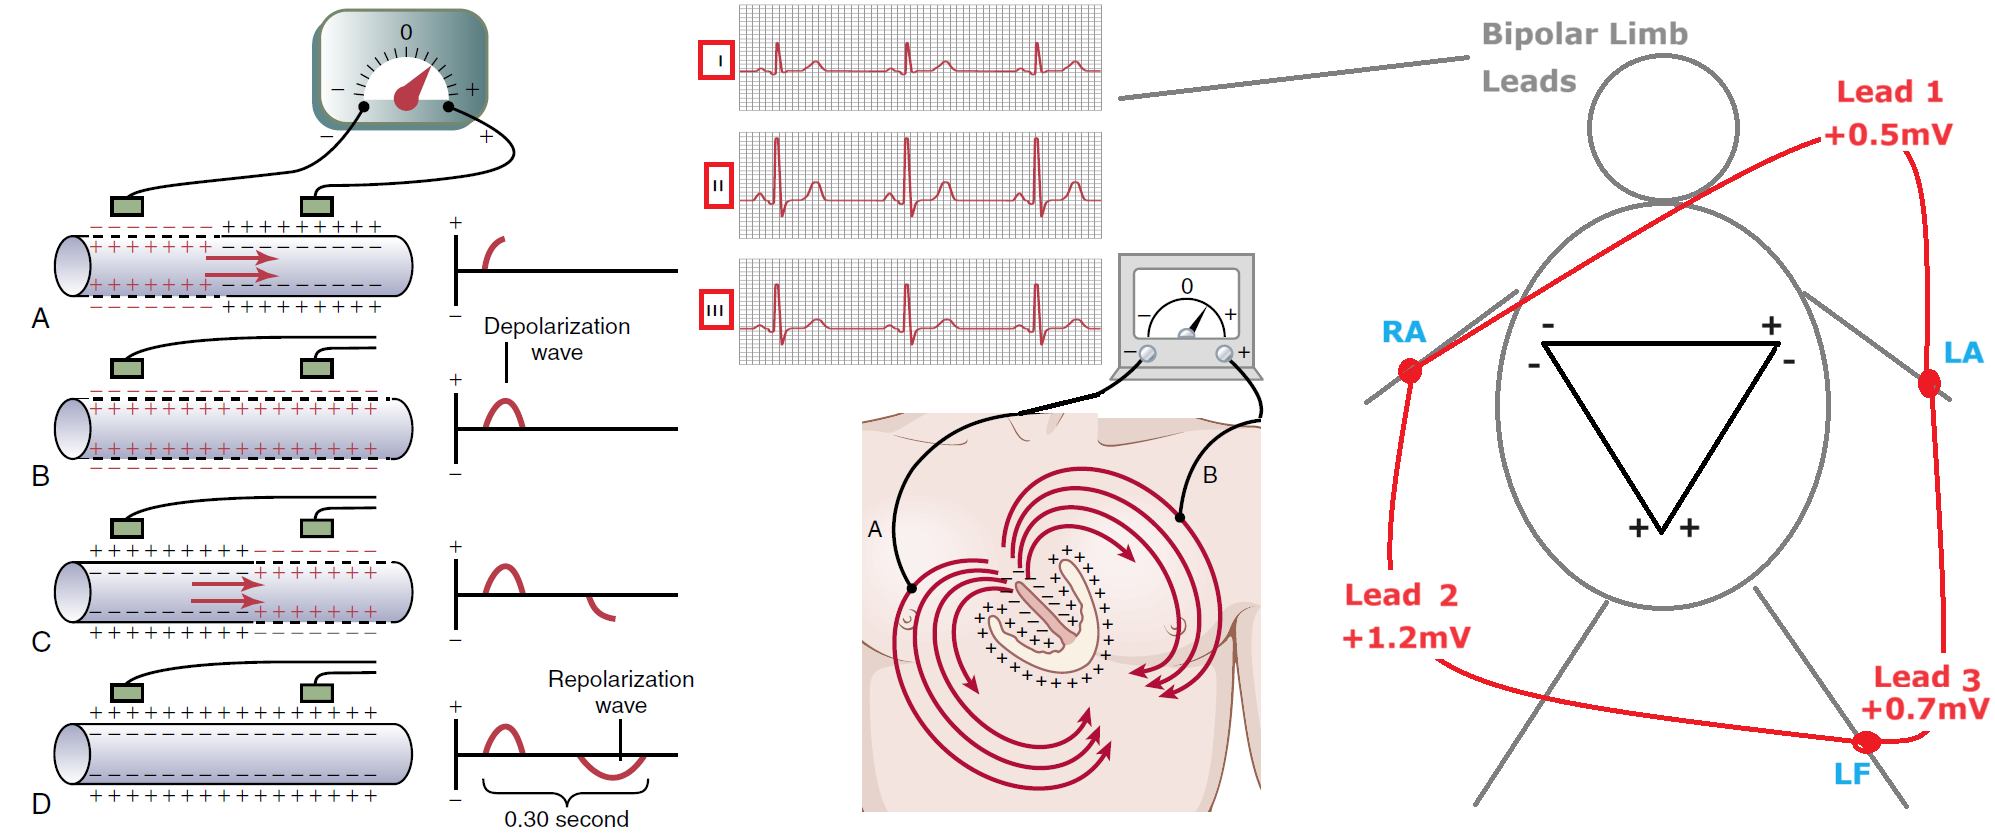
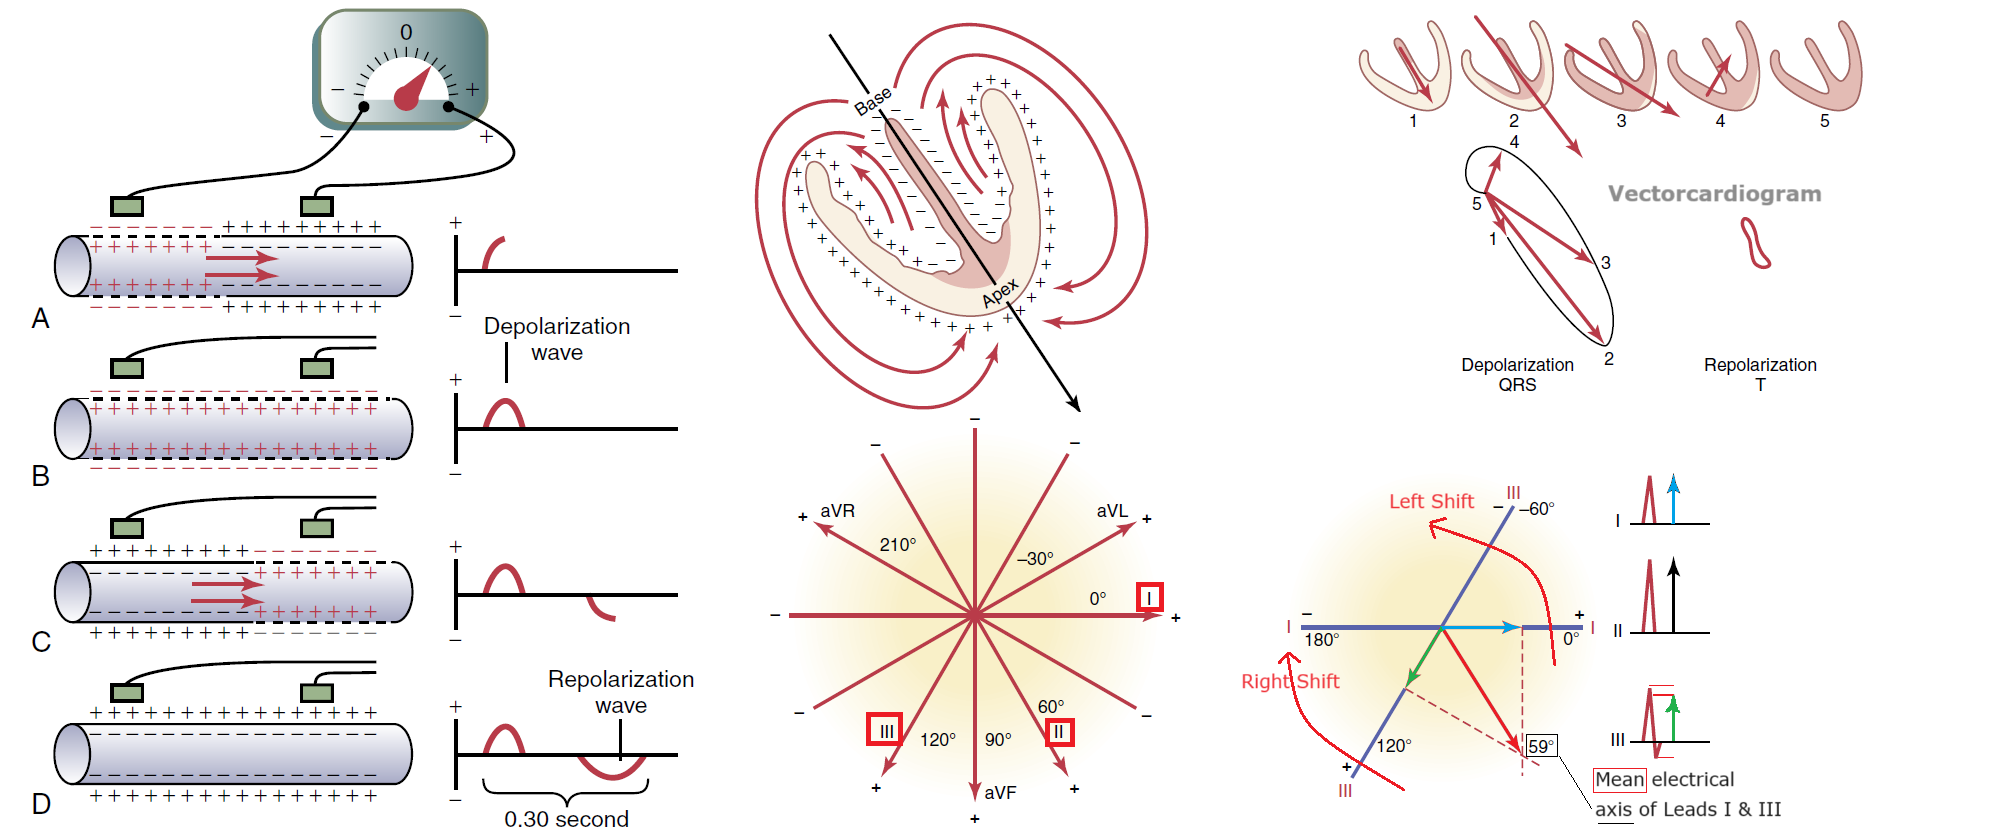
med physio 12

diff --git a/docs/Course/Medical_Physiology.md b/docs/Course/Medical_Physiology.md
@@ -136,6 +136,7 @@ to form mRNA（去除introns）
 
 ![Figure 5-1](Medical_Physiology/5-1.png)![Figure 5-3](Medical_Physiology/5-3.png)  
 
+* 上图，静息状态表格指膜内电位相对于膜外电位，e.g. -60mv 表示膜内电位负于膜外 60mV
 
 * 静息状态时达成平衡，Nerve fiber 细胞内部含有大量K，细胞外部含有大量Na。因为多种离子的平衡电位不同 (K:–94 mV,Na:+61mV)，**静息电位**可用 Goldman equation 计算，其值为负，因：
     - Na-K pump: 泵出3 Na+, 泵入2 K+
@@ -222,8 +223,8 @@ to form mRNA（去除introns）
 
 
 * 心肌的动作电位扩展至T小管，激活 L-type Ca channel 令钙离子进入细胞，激活肌浆网中的钙离子也泵入胞质；收缩结束后钙离子泵出细胞
-    - 有Plateau，因为开启L型钙离子通道使Ca流入细胞，延长了depolarization的时长
-    - 骨骼肌中过早的收缩会引起 wave summation；但**心肌在达成Repolarization前无法再次激发动作电位**
+    - 有Plateau，因为开启L型钙离子通道使Ca流入细胞，延长了去极化(Depolarization)的时长
+    - 骨骼肌中过早的收缩会引起 wave summation；但**心肌在达成复极化(Repolarization)前无法再次激发动作电位**
 
 * Cardiac Muscle
     - Atrial Muscle
@@ -265,19 +266,51 @@ to form mRNA（去除introns）
 * 自主节律：S-A node、A-V node 可以受Vagi调节，也可以自主产生节律脉冲（其静息电位不如正常的负）；正常心跳节律由 S-A node 产生；A-V node 的自主节律 S-A node 慢，当外源信号迟迟不至时才起作用（escape beat）；Purkinje fibers 的自主节律更慢
 
 
-## Chapter 11 心电图
+## Chapter 11,12 心电图
 ![Figure 11-1](Medical_Physiology/11-1.png)![Figure 11-2](Medical_Physiology/11-2.png)  
 ![Figure 11-3](Medical_Physiology/11-3.png)
 
+
 * PR区间 AV node 慢速传递电信号，QT区间 Ventricle 收缩
 
+* 心肌[去极化(Depolarization)](./Medical_Physiology/9-8.png)时，大量 Na 进入细胞使得胞内正电荷、胞外负电荷(-)；而 极化(Polarized) 后达成静息电位，此时胞外正电荷(+)
+    - [PQRS过程中的电荷分布与心电图](Medical_Physiology/12-7.png)
+        * P (Atrial P Wave)：**atria** 从 sinus node 开始极化; 其从远端部分开始去极化，产生 Atrial T Wave
+        * QRS：信号从 A-V bundle 处进入 **ventricles** 并扩散，使之去极化
+        * T：**ventricles** 复极化；注意，因为最先极化的 septum and endocardial areas 收缩时间较长，因此是从 apex 开始复极化
+        * 当ventricles极化耗费过长时间传递时，有可能 septum 等已经完成收缩，先进行复极化，（或者是药物导致部分区域加速完成去极化、先行复极化），此时会有[异常的 T wave 图像](Medical_Physiology/12-24.png)
+    - 电流趋势方向：负电荷 --> 正电荷
+
+
 * EKG/ECG Leads 摆法：不同 Leads 都可通过正负极之间的电流测得电信号的大致方向以形成心电图
+    - （正负电极测量两个位点电位之间的差别、**方向**，注意图中符号）
     - Bipolar Limb Leads：正负极摆法如图；其中 Leads 2 最符合电信号趋势，因此信号最强
     - Precordial Leads：肢体合并为整个负极，将正极放置于心脏周围不同处，可以分辨出整个信号传导过程
-    - Augmented Limb Leads：aVR（Right arm 正极，其余二者负极），aVL（Left arm 正极，其余二者负极），aVF（Left Foot 正极，其余二者负极）；是 Bipolar Limb Leads 的加强版
+    - Augmented Limb Leads：aVR（Right arm 正极，其余二者负极），aVL（Left arm 正极，其余二者负极），aVF（Left Foot 正极，其余二者负极）；是 Bipolar Limb Leads 的信号加强版
 
-## Chapter 12 心律失常(TBA)
-## Chapter 13 (TBA)
+* Vectorcardiogram：趋势向量（不同时间）的轨迹图
+
+* QRS 的 Mean electrical axis：确定 QRS 时 Bipolar Limb Leads 2个方向上的向量长度（所有正数值-所有负数值），二者**顶端的垂线**相交于某一点、连通原点得到一个新的向量轴
+    - 对于正常的 ventricles，其标准值是 59°（在 20°-100°之间都是正常的）；改变 apex 的位置会造成一定程度的 axis shifts：躺下（to left）、站起（to right）
+    - **单侧**心肌异常/信号传递受阻可能导致 axis 偏移：**因其去极化时间变久，axis转向此侧**，例如-单侧心室肥厚，单侧 Bundle Branch Block
+
+* QRS的范围一般在 0.5mV 至 2mV 之间
+    - 高于 4mV 则认为有高血压：心脏的某一部分负荷过重，肌肉量增加，更多电流
+    - 过低则可能：有陈旧性心肌梗死导致肌肉量减少；或心包积液(pericardial effusion)过多，使大部分电信号通过积液传递，降低到达身体外表面的心电图电压；或肺气肿形成绝缘体包裹心脏
+
+* 正常QRS复合体持续0.06 ~ 0.08秒，超过0.09则不正常
+    - 心室肥大或扩张，QRS延长至0.09 ~ 0.12秒
+    - 传导系统（例如-Purkinje system）被阻塞：QRS持续超过0.12秒
+    - 疤痕也会减慢传递速度，因为信号需要绕过它
+
+* 损伤电流(current of injury, COI)：部分心肌细胞一直处于去极化状态，使[电流异常，可测得 J point](Medical_Physiology/12-17.png)
+    - 不能完全复极化：机械损伤使膜保持透性
+    - 感染：肌膜损伤
+    - 局部缺血：局部冠状动脉闭塞
+    - 以 J point 为 Baseline（排除杂乱电流信号），可结合不同leads的心电图，以确定损伤部位：绘制 [Injury potential 的 Mean electrical axis](Medical_Physiology/12-18.png)，新向量的**负端**指向 ventricles 中损伤的位置
+    
+
+## Chapter 13 心律失常(TBA)
 ## Chapter 14 (TBA)
 ## Chapter 15 (TBA)
 ## Chapter 16 (TBA)
